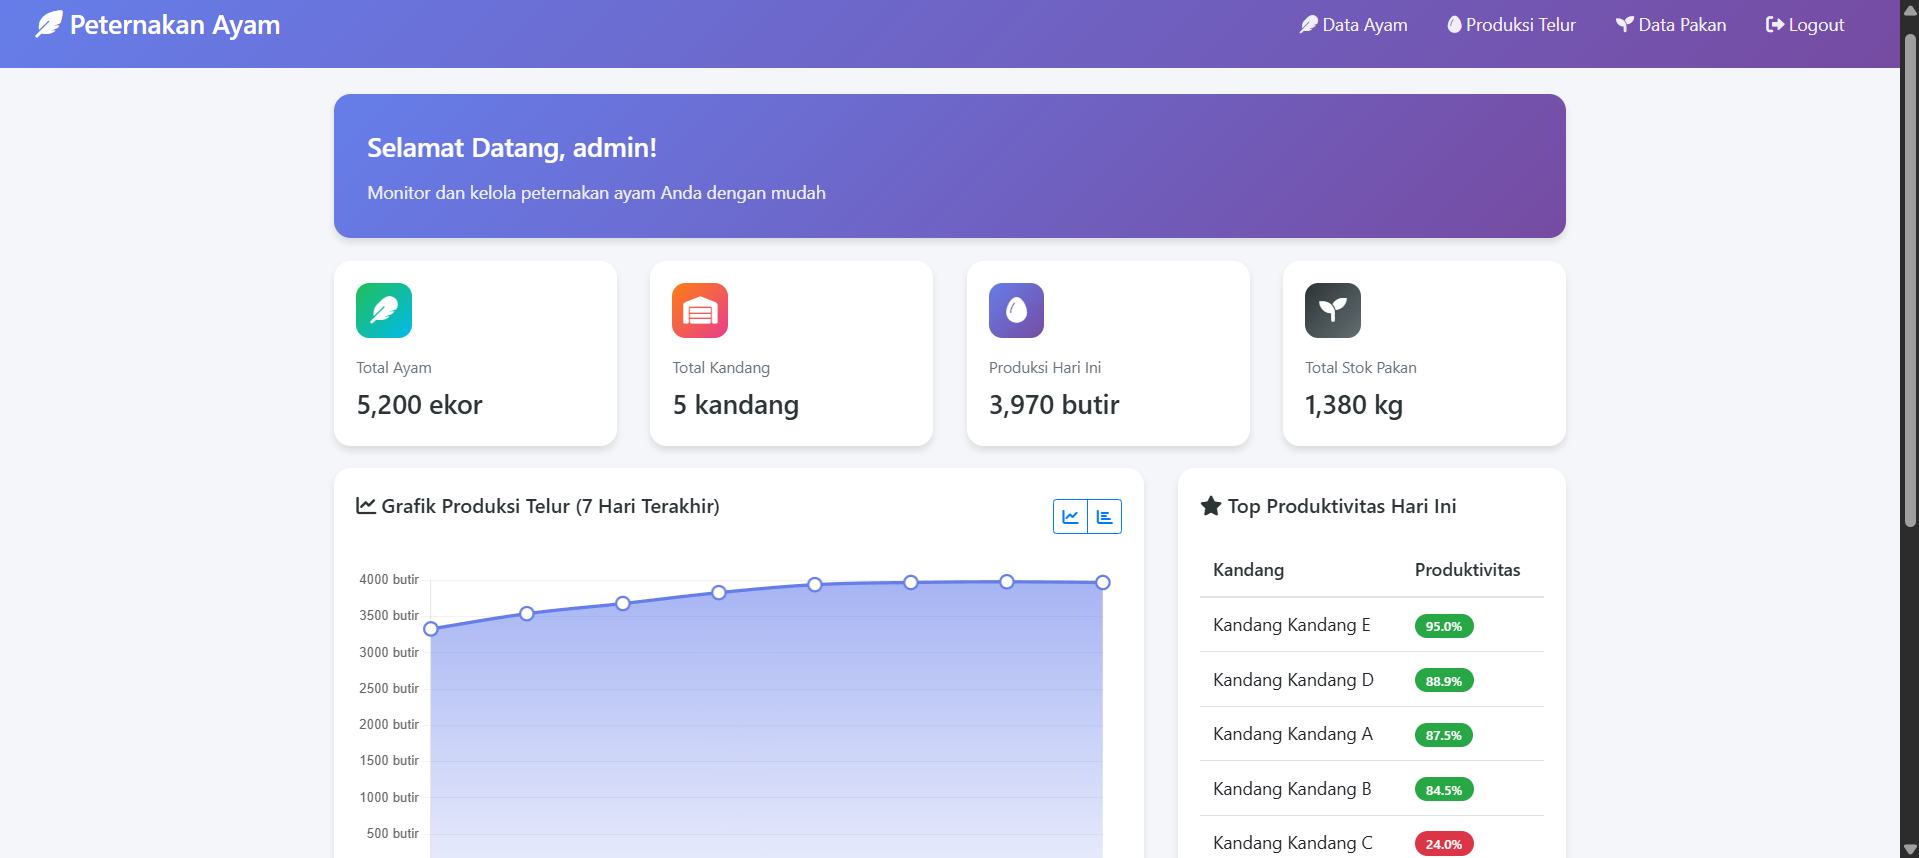
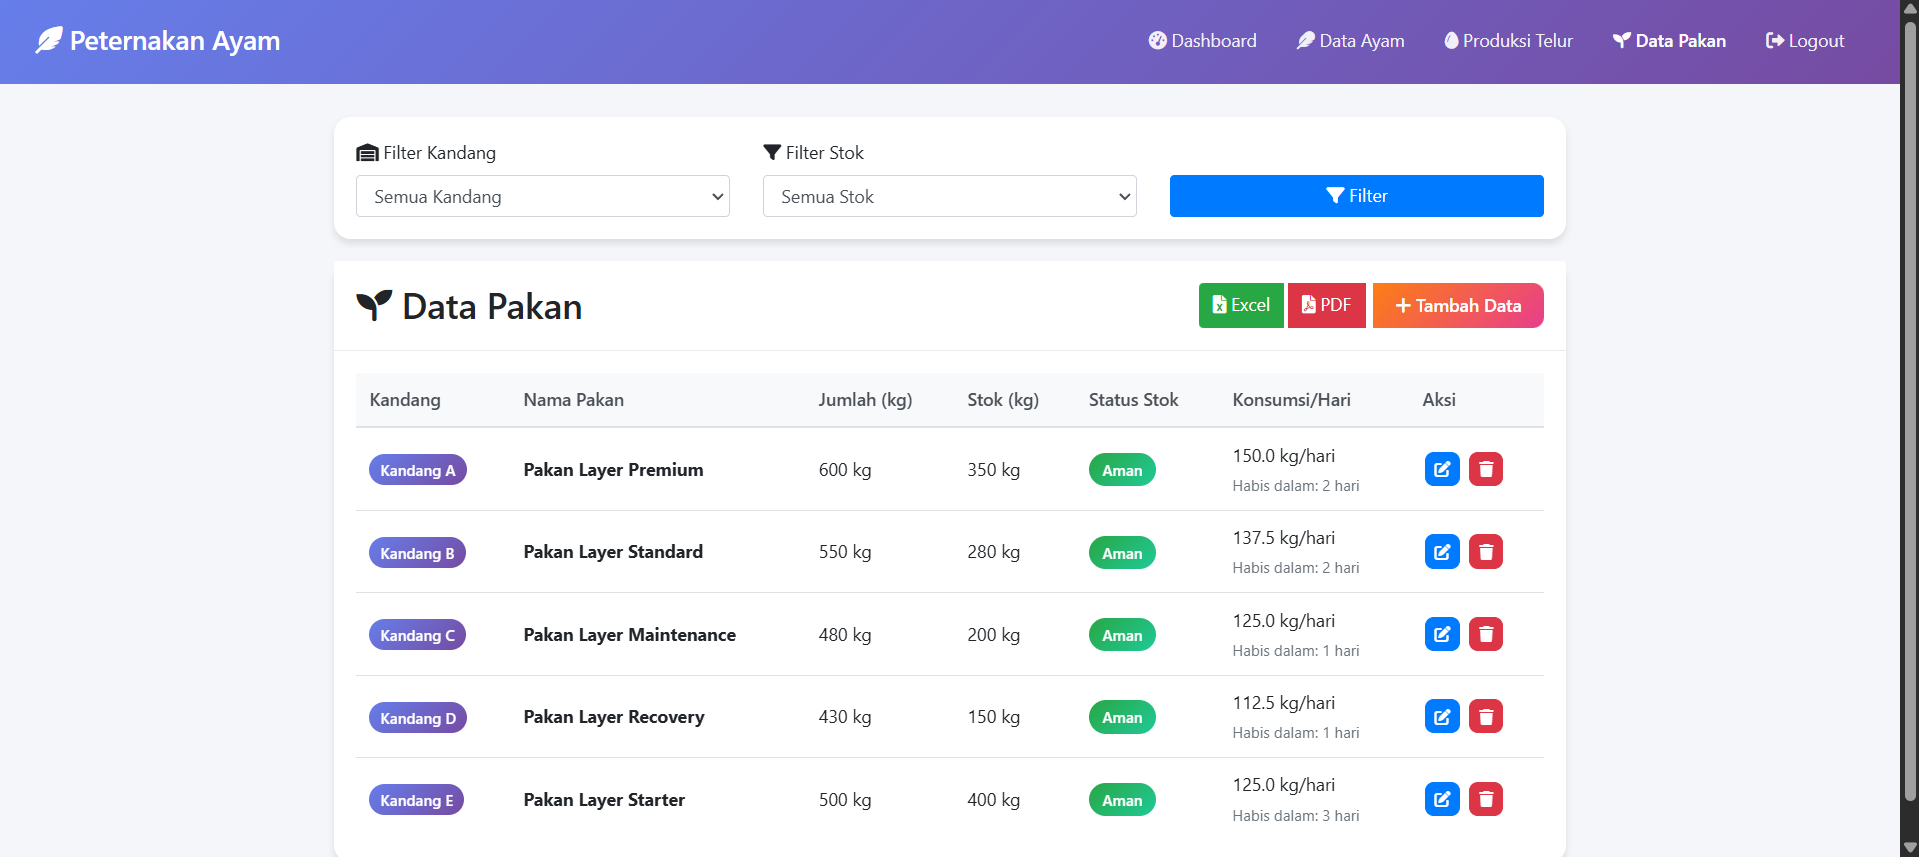
Replace peternakan screenshots with clean labeled versions and update gallery

diff --git a/projects/peternakan.html b/projects/peternakan.html
@@ -302,19 +302,19 @@
     <div class="gallery">
       <div class="gallery-item" onclick="openModal(this)">
         <img src="../assets/projects/peternakan-dashboard.png" alt="Dashboard">
-        <div class="gallery-label">Dashboard Ringkasan</div>
+        <div class="gallery-label">Dashboard - Ringkasan Sistem</div>
       </div>
       <div class="gallery-item" onclick="openModal(this)">
         <img src="../assets/projects/peternakan-ayam.png" alt="Data Ayam">
-        <div class="gallery-label">Data Ayam</div>
+        <div class="gallery-label">Data Ayam - Manajemen Kandang</div>
       </div>
       <div class="gallery-item" onclick="openModal(this)">
-        <img src="../assets/projects/peternakan-produksi.png" alt="Produksi Telur">
-        <div class="gallery-label">Produksi Telur</div>
+        <img src="../assets/projects/peternakan-telur.png" alt="Produksi Telur">
+        <div class="gallery-label">Produksi Telur - Tracking Harian</div>
       </div>
       <div class="gallery-item" onclick="openModal(this)">
         <img src="../assets/projects/peternakan-pakan.png" alt="Data Pakan">
-        <div class="gallery-label">Manajemen Pakan</div>
+        <div class="gallery-label">Data Pakan - Manajemen Stok</div>
       </div>
     </div>
 
